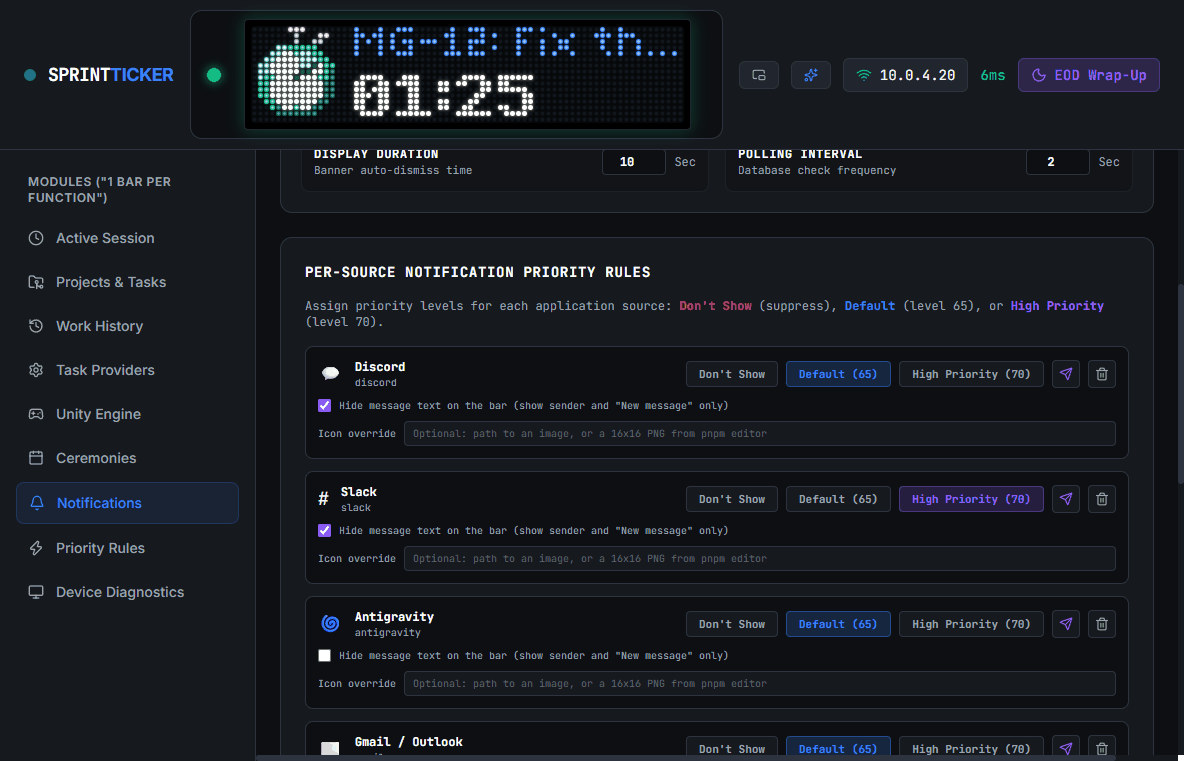
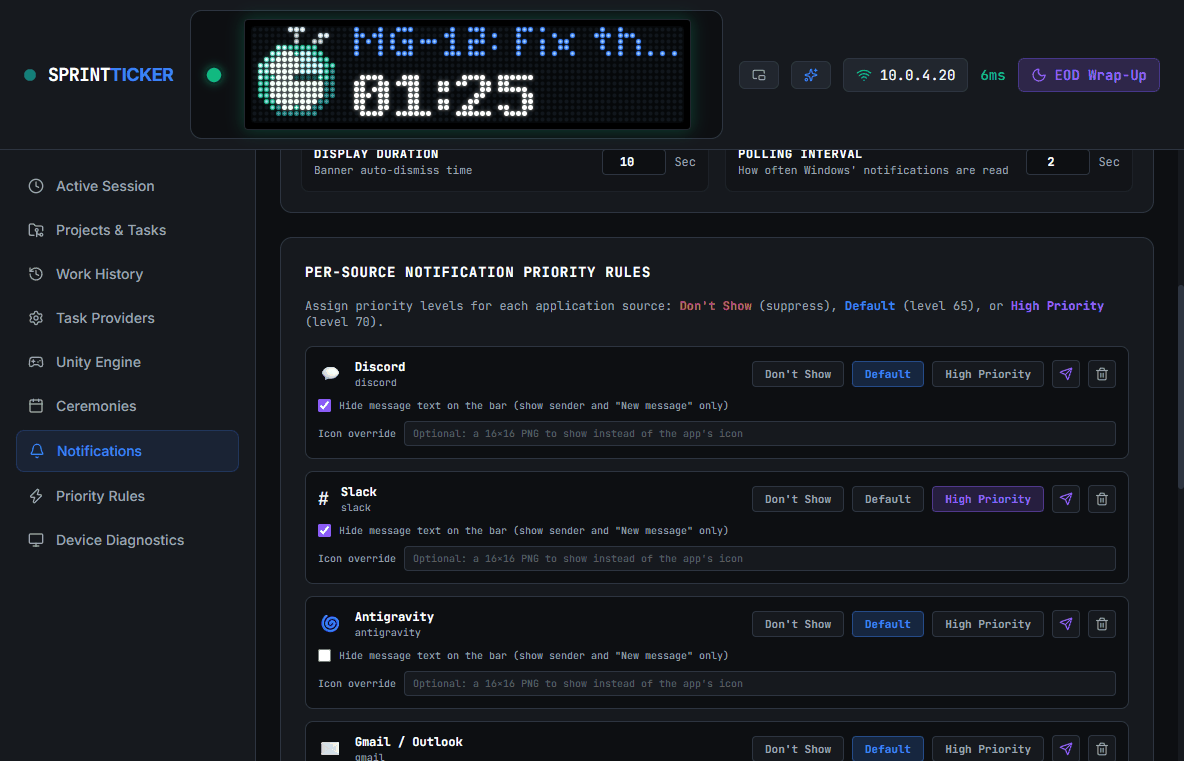
Plainer wording in the window
Drop developer labels, say what settings do, and count "1 task" rather
than "Task(s)". Pictures remade.

diff --git a/packages/desktop-app/src/renderer/views/Device/DeviceDiagnosticsView.tsx b/packages/desktop-app/src/renderer/views/Device/DeviceDiagnosticsView.tsx
@@ -242,12 +242,12 @@ export const DeviceDiagnosticsView: React.FC = () => {
       <div className="bg-dark-800 rounded-xl border border-border-dark p-6 shadow-xl space-y-4">
         <h3 className="text-sm font-bold text-white font-mono uppercase tracking-wider flex items-center space-x-2">
           <HardDrive className="w-4 h-4 text-accent-blue" />
-          <span>Display Configuration & Debug Output Strategy</span>
+          <span>Display</span>
         </h3>
 
         <div className="space-y-3 font-mono text-xs">
           <div className="flex items-center justify-between bg-dark-900 p-3 rounded-lg border border-border-dark">
-            <span className="text-text-secondary">Front LED Matrix Brightness:</span>
+            <span className="text-text-secondary">Front display brightness</span>
             <span className={`font-bold ${deviceStatus.connected ? 'text-accent-blue' : 'text-text-secondary'}`}>
               {!deviceStatus.connected
                 ? 'Off (Disconnected)'
@@ -258,7 +258,7 @@ export const DeviceDiagnosticsView: React.FC = () => {
           </div>
 
           <div className="flex items-center justify-between bg-dark-900 p-3 rounded-lg border border-border-dark">
-            <span className="text-text-secondary">Rear OLED Brightness:</span>
+            <span className="text-text-secondary">Rear display brightness</span>
             <span className={`font-bold ${deviceStatus.connected ? 'text-accent-purple' : 'text-text-secondary'}`}>
               {!deviceStatus.connected
                 ? 'Off (Disconnected)'
@@ -269,7 +269,7 @@ export const DeviceDiagnosticsView: React.FC = () => {
           </div>
 
           <div className="flex items-center justify-between bg-dark-900 p-3 rounded-lg border border-border-dark">
-            <span className="text-text-secondary">Front 72×16 LED Matrix Color Theme:</span>
+            <span className="text-text-secondary">Front display color</span>
             <select
               onChange={(e) => {
                 if (window.electronAPI?.setColorTheme) {
@@ -278,10 +278,10 @@ export const DeviceDiagnosticsView: React.FC = () => {
               }}
               className="bg-dark-800 text-accent-blue font-bold text-xs px-2 py-1 rounded border border-border-dark focus:outline-none"
             >
-              <option value="emerald">Emerald Developer (#10B981)</option>
-              <option value="cyberpunk">Cyberpunk Neon (#8B5CF6)</option>
-              <option value="retro_arcade">Retro Arcade (#F59E0B)</option>
-              <option value="nordic_cyan">Nordic Cyan (#06B6D4)</option>
+              <option value="emerald">Emerald</option>
+              <option value="cyberpunk">Neon violet</option>
+              <option value="retro_arcade">Arcade amber</option>
+              <option value="nordic_cyan">Nordic cyan</option>
             </select>
           </div>
 
@@ -372,8 +372,8 @@ export const DeviceDiagnosticsView: React.FC = () => {
 
           <div className="flex items-center justify-between bg-dark-900 p-3 rounded-lg border border-border-dark">
             <span className="text-text-secondary flex flex-col">
-              <span>Enable Idle Hardware Clock Fallback</span>
-              <span className="text-[10px] text-dark-400">Clears app display when idle to show device native clock. LED will turn off.</span>
+              <span>Show the bar&apos;s own clock when idle</span>
+              <span className="text-[10px] text-dark-400">With no task running, SprintTicker hands the display back and the bar shows its clock.</span>
             </span>
             <label className="relative inline-flex items-center cursor-pointer">
               <input

diff --git a/packages/desktop-app/src/renderer/views/Notifications/NotificationSettingsView.tsx b/packages/desktop-app/src/renderer/views/Notifications/NotificationSettingsView.tsx
@@ -379,7 +379,7 @@ export const NotificationSettingsView: React.FC = () => {
           <div className="flex items-center justify-between bg-dark-900/50 p-3 rounded-lg border border-border-dark/40">
             <div>
               <h4 className="text-xs font-bold text-white uppercase tracking-wider">Polling Interval</h4>
-              <p className="text-[11px] text-text-secondary">Database check frequency</p>
+              <p className="text-[11px] text-text-secondary">How often Windows&apos; notifications are read</p>
             </div>
             <div className="flex items-center space-x-2">
               <input
@@ -452,7 +452,7 @@ export const NotificationSettingsView: React.FC = () => {
                       : 'bg-dark-800 text-text-secondary hover:text-white border border-border-dark'
                   }`}
                 >
-                  Default ({defaultScore})
+                  Default
                 </button>
                 <button
                   onClick={() => updateRuleMode(rule.appId, 'HIGH_PRIORITY')}
@@ -462,7 +462,7 @@ export const NotificationSettingsView: React.FC = () => {
                       : 'bg-dark-800 text-text-secondary hover:text-white border border-border-dark'
                   }`}
                 >
-                  High Priority ({highScore})
+                  High Priority
                 </button>
 
                 <button
@@ -503,7 +503,7 @@ export const NotificationSettingsView: React.FC = () => {
                   type="text"
                   value={rule.iconImagePath ?? ''}
                   onChange={e => updateRuleIcon(rule.appId, e.target.value)}
-                  placeholder="Optional: path to an image, or a 16x16 PNG from pnpm editor"
+                  placeholder="Optional: a 16×16 PNG to show instead of the app's icon"
                   className="flex-1 px-2 py-1 bg-dark-800 border border-border-dark rounded text-[10px] font-mono text-white placeholder:text-text-secondary/50 focus:outline-none focus:border-accent-purple"
                 />
               </div>
@@ -547,9 +547,9 @@ export const NotificationSettingsView: React.FC = () => {
               onChange={e => setNewPriorityMode(e.target.value as NotificationPriorityMode)}
               className="bg-dark-900 text-white text-xs px-3 py-2 rounded-lg border border-border-dark focus:outline-none focus:border-accent-purple font-mono"
             >
-              <option value="DONT_SHOW">Mode: Suppress (Don&apos;t Show)</option>
-              <option value="DEFAULT">Mode: Default ({defaultScore})</option>
-              <option value="HIGH_PRIORITY">Mode: High Priority ({highScore})</option>
+              <option value="DONT_SHOW">Don&apos;t Show</option>
+              <option value="DEFAULT">Default</option>
+              <option value="HIGH_PRIORITY">High Priority</option>
             </select>
             <button
               onClick={addRule}

diff --git a/packages/desktop-app/src/renderer/views/Tasks/ProjectTaskManagerView.tsx b/packages/desktop-app/src/renderer/views/Tasks/ProjectTaskManagerView.tsx
@@ -13,6 +13,7 @@ import { DEFAULT_TASK_VISIBILITY, visibleTasks } from '../../../shared/task-visi
 import { hasTaskPage } from '../../../shared/task-page';
 import { TaskPageButton } from '../../components/TaskPageButton';
 import { OWN_PROJECT_PROVIDER_ID } from '../../../shared/local-provider';
+import { countOf } from '../../utils/formatters';
 
 export const ProjectTaskManagerView: React.FC = () => {
   const [projects, setProjects] = useState<ProjectDTO[]>([]);
@@ -248,7 +249,7 @@ export const ProjectTaskManagerView: React.FC = () => {
 
       if (window.electronAPI?.importTasks) {
         await window.electronAPI.importTasks(selectedProjectId, parsedTasks);
-        setImportStatus(`Successfully imported ${parsedTasks.length} task(s)!`);
+        setImportStatus(`Imported ${countOf(parsedTasks.length, 'task')}.`);
         setTimeout(() => {
           setIsImportOpen(false);
           setImportText('');
@@ -376,7 +377,7 @@ export const ProjectTaskManagerView: React.FC = () => {
               <h3 className="text-sm font-bold text-white uppercase tracking-wider">
                 {activeProject ? `Tasks under [${activeProject.key}] ${activeProject.name}` : 'Select a Project'}
               </h3>
-              <p className="text-xs text-text-secondary mt-0.5">{listedTasks.length} task(s) listed</p>
+              <p className="text-xs text-text-secondary mt-0.5">{countOf(listedTasks.length, 'task')} listed</p>
               <div className="mt-1.5">
                 <TaskVisibilityToggle visibility={visibility} onChange={setVisibility} hiddenCount={hiddenTaskCount} />
               </div>

diff --git a/packages/desktop-app/src/renderer/views/History/WorklogHistoryView.tsx b/packages/desktop-app/src/renderer/views/History/WorklogHistoryView.tsx
@@ -8,7 +8,7 @@ import { EditWorklogModal } from '../../components/EditWorklogModal';
 import { TaskPageButton } from '../../components/TaskPageButton';
 import { InlineRename } from '../../components/InlineRename';
 import { TaskSelectionModal } from '../../components/TaskSelectionModal';
-import { ipcErrorMessage } from '../../utils/formatters';
+import { countOf, ipcErrorMessage } from '../../utils/formatters';
 import { ConfirmPanel } from '../../components/ConfirmPanel';
 import { CLOSED_WEEK_WARNING, isInClosedWeek } from '../../../shared/closed-week';
 
@@ -286,7 +286,7 @@ export const WorklogHistoryView: React.FC = () => {
             <CheckCircle2 className="w-4 h-4 text-accent-green" />
           </div>
           <div className="text-2xl font-bold text-white font-mono">
-            {summary.tasksCount} Task(s)
+            {countOf(summary.tasksCount, 'task')}
           </div>
           <div className="text-[10px] text-text-secondary">Itemized task logs</div>
         </div>
@@ -297,7 +297,7 @@ export const WorklogHistoryView: React.FC = () => {
             <FileText className="w-4 h-4 text-accent-purple" />
           </div>
           <div className="text-2xl font-bold text-white font-mono">
-            {worklogs.length} Session(s)
+            {countOf(worklogs.length, 'session')}
           </div>
           <div className="text-[10px] text-text-secondary">Completed tracking sessions</div>
         </div>

diff --git a/packages/desktop-app/src/renderer/App.tsx b/packages/desktop-app/src/renderer/App.tsx
@@ -155,7 +155,7 @@ export const App: React.FC = () => {
             {/* Todays Completed Worklogs Table */}
             <section className="bg-dark-800 border border-border-dark rounded-xl p-6 space-y-4">
               <h3 className="text-md font-bold text-white font-mono flex items-center justify-between">
-                <span>Today&apos;s Logged Work sessions</span>
+                <span>Today&apos;s work</span>
                 <span className="text-xs text-text-secondary font-normal">
                   Total: {formatSeconds(worklogs.reduce((acc, curr) => acc + curr.durationSeconds, 0))}
                 </span>
@@ -333,9 +333,6 @@ export const App: React.FC = () => {
       <div className="flex flex-1 overflow-hidden">
         {/* Sidebar Navigation */}
         <aside className="w-64 bg-dark-800 border-r border-border-dark flex flex-col p-4 space-y-1">
-          <div className="text-xs font-semibold text-text-secondary uppercase tracking-wider px-3 py-2">
-            Modules (&quot;1 Bar per Function&quot;)
-          </div>
           {navItems.map(item => {
             const Icon = item.icon;
             const isActive = activeTab === item.id;

diff --git a/packages/desktop-app/src/renderer/views/Ceremonies/CeremoniesView.tsx b/packages/desktop-app/src/renderer/views/Ceremonies/CeremoniesView.tsx
@@ -198,7 +198,7 @@ export const CeremoniesView: React.FC = () => {
                 className="flex items-center space-x-1.5 px-3 py-2 bg-accent-blue/20 hover:bg-accent-blue/30 text-accent-blue border border-accent-blue/30 rounded-lg text-xs font-semibold transition-all"
               >
                 <Play className="w-3.5 h-3.5" />
-                <span>Test Trigger Stand-Up</span>
+                <span>Try the stand-up prompt</span>
               </button>
             </div>
           </div>
@@ -310,7 +310,7 @@ export const CeremoniesView: React.FC = () => {
                 className="flex items-center space-x-1.5 px-3 py-2 bg-accent-purple/20 hover:bg-accent-purple/30 text-accent-purple border border-accent-purple/30 rounded-lg text-xs font-semibold transition-all"
               >
                 <Play className="w-3.5 h-3.5" />
-                <span>Test Trigger EOD Wrap-Up</span>
+                <span>Try the wrap-up</span>
               </button>
 
               {testStatusMessage && (

diff --git a/packages/desktop-app/src/renderer/components/SyncQueuePanel.tsx b/packages/desktop-app/src/renderer/components/SyncQueuePanel.tsx
@@ -1,7 +1,7 @@
 import React, { useCallback, useEffect, useState } from 'react';
 import { RefreshCw, RotateCcw, AlertCircle, Clock, CheckCircle2, Loader2 } from 'lucide-react';
 import { SyncQueueItemDTO, SyncQueueSnapshotDTO } from '../../shared/dtos';
-import { formatClockTime, formatSeconds } from '../utils/formatters';
+import { countOf, formatClockTime, formatSeconds } from '../utils/formatters';
 
 /**
  * What the worklog sync queue holds, and why anything in it has not arrived.
@@ -64,7 +64,7 @@ export const SyncQueuePanel: React.FC = () => {
       // came to look healthy while nothing was being delivered.
       setNotice(
         result.status === 'synced'
-          ? `Synced ${result.projects} project(s) and ${result.tasks} task(s).`
+          ? `Synced ${countOf(result.projects, 'project')} and ${countOf(result.tasks, 'task')}.`
           : `Sync ${result.status}${result.reason ? `: ${result.reason}` : ''}`
       );
     } catch (err) {

diff --git a/packages/desktop-app/tests/renderer/formatters.test.tsx b/packages/desktop-app/tests/renderer/formatters.test.tsx
@@ -1,5 +1,5 @@
 import { describe, it, expect, afterEach } from 'vitest';
-import { formatClockTime, setRegionalLocale } from '../../src/renderer/utils/formatters';
+import { countOf, formatClockTime, setRegionalLocale } from '../../src/renderer/utils/formatters';
 
 /**
  * Times follow Windows' regional format, not the app's locale. Only en-US's
@@ -37,5 +37,19 @@ describe('formatClockTime', () => {
 
     expect(() => formatClockTime(fivePastTwo)).not.toThrow();
     expect(formatClockTime(fivePastTwo)).toBe(fivePastTwo.toLocaleTimeString());
+  });
+});
+
+describe('countOf', () => {
+  it.each([
+    [0, '0 tasks'],
+    [1, '1 task'],
+    [4, '4 tasks']
+  ])('CountOf_%i_ReadsAsASentence', (count, expected) => {
+    expect(countOf(count, 'task')).toBe(expected);
+  });
+
+  it('CountOf_IrregularPlural_Used', () => {
+    expect(countOf(2, 'entry', 'entries')).toBe('2 entries');
   });
 });

diff --git a/packages/desktop-app/src/renderer/utils/formatters.ts b/packages/desktop-app/src/renderer/utils/formatters.ts
@@ -83,6 +83,11 @@ export function formatDayAndTime(date: Date): string {
   });
 }
 
+/** "1 task", "4 tasks": a count with its noun, never "task(s)". */
+export function countOf(count: number, singular: string, plural = `${singular}s`): string {
+  return `${count} ${count === 1 ? singular : plural}`;
+}
+
 /**
  * The sentence main threw, without the wrapper Electron puts round a rejected
  * `invoke` -- `Error invoking remote method 'worklog:update':

diff --git a/packages/desktop-app/src/renderer/components/ActiveTaskHeroCard.tsx b/packages/desktop-app/src/renderer/components/ActiveTaskHeroCard.tsx
@@ -68,7 +68,6 @@ export const ActiveTaskHeroCard: React.FC<ActiveTaskHeroCardProps> = ({
               ● {session?.status || 'IDLE'}
             </span>
           </div>
-          <span className="text-xs font-mono text-text-secondary">UTC Absolute Timestamp Engine</span>
         </div>
 
         <div>

diff --git a/CHANGELOG.md b/CHANGELOG.md
@@ -13,8 +13,8 @@
   the paused menu's first choice: pause, turn the wheel two notches left,
   click.
 - **A keyboard shortcut for Interrupt**, from any app, off until you turn it
-  on in Device & Logs, where you record the chord (Ctrl+Alt+Shift+I
-  suggested). A chord another app holds is said to be inactive rather than
+  on in Device Diagnostics (Device & Logs without a bar), where you record
+  the chord (Ctrl+Alt+Shift+I suggested). A chord another app holds is said to be inactive rather than
   shown on, and a press with nothing on screen is told by a notification.
 - **Interruptions to sort.** Work History marks an interruption not named
   yet **To sort** and lists every one at the top, whatever its day, with its
@@ -38,6 +38,15 @@
   title on the session card or in the mini timer to name it. **Assign to
   Task** moves the running session to a task you pick, keeping its start, so
   the whole interruption is logged on that task and sent to its provider.
+
+### Changed
+
+- **Plainer wording in the window.** Developer labels are gone -- the
+  sidebar's "Modules" header, "UTC Absolute Timestamp Engine", "Display
+  Configuration & Debug Output Strategy" -- and settings say what they do:
+  *Show the bar's own clock when idle*, *Try the wrap-up*. Notification
+  rules read Default and High Priority without their scores, and counts
+  read "1 task", not "1 Task(s)".
 
 ### Fixed
 
